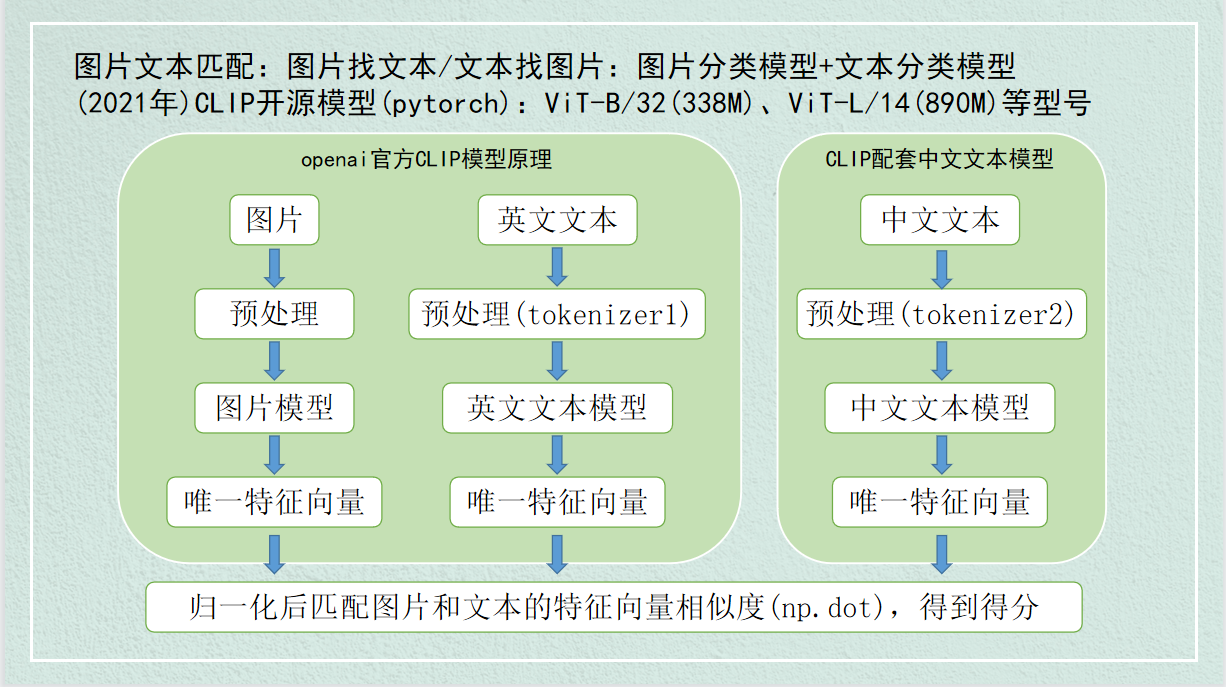
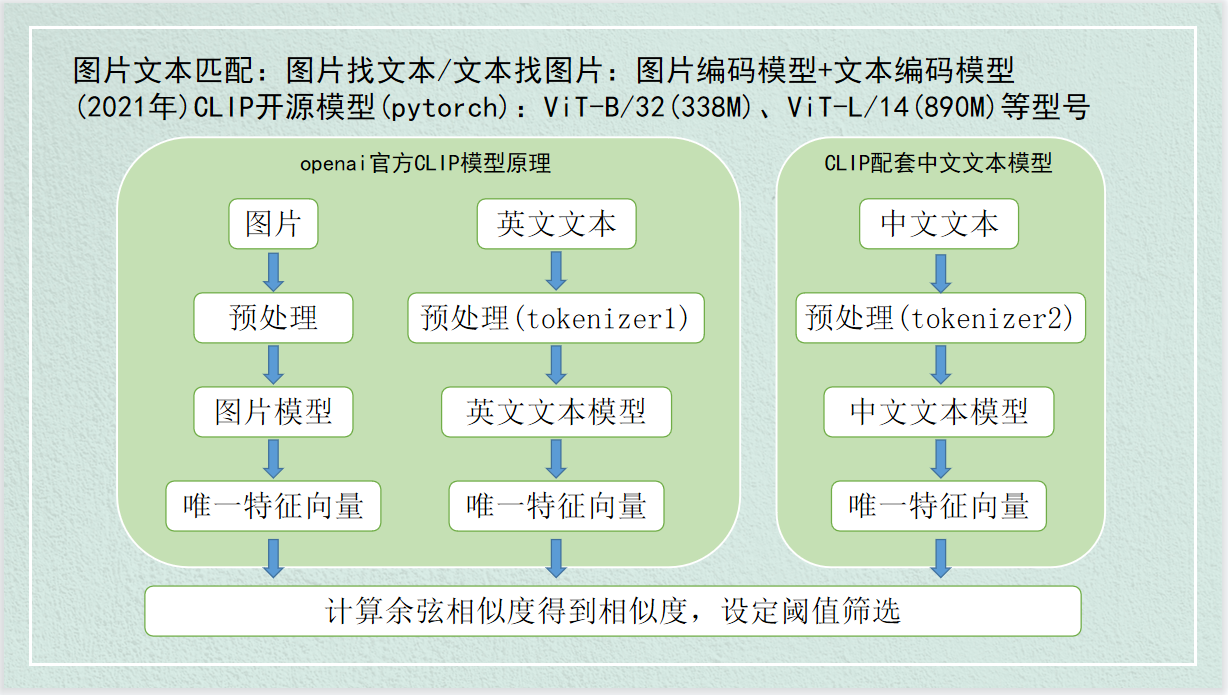
!

Changed region(s): [[0.031, 0.0306, 0.9918, 0.9782], [0.5889, 0.7336, 0.6199, 0.7642]]

diff --git a/predict.py b/predict.py
@@ -8,8 +8,8 @@ import pandas as pd
 parser = argparse.ArgumentParser(description='')
 parser.add_argument('--database_path', default='feature_database.csv', type=str, help='|特征数据库位置|')
 parser.add_argument('--model_name', default='ViT-L/14', type=str, help='|模型名称，中文文本模型只支持ViT-L/14(890M)|')
-parser.add_argument('--english_score_threshold', default=17, type=int, help='|英文文本得分筛选阈值，17为基准|')
-parser.add_argument('--chinese_score_threshold', default=12, type=int, help='|中文文本得分筛选阈值，12为基准|')
+parser.add_argument('--english_score_threshold', default=0.17, type=int, help='|英文文本相似度筛选阈值，0.17为基准|')
+parser.add_argument('--chinese_score_threshold', default=0.12, type=int, help='|中文文本相似度筛选阈值，0.12为基准|')
 parser.add_argument('--device', default='cuda', type=str, help='|运行设备|')
 args = parser.parse_args()
 
@@ -60,7 +60,7 @@ class predict:
         return english_colunm, english_score, chinese_colunm, chinese_score
 
     def _deal(self, text_feature, score_threshold):
-        score = 100.0 * np.dot(text_feature, self.image_feature)
+        score = np.dot(text_feature, self.image_feature)
         judge = np.where(score > score_threshold, True, False)
         colunm = [self.column[judge[_]].tolist() for _ in range(len(judge))]
         score = [score[_][judge[_]].tolist() for _ in range(len(judge))]
@@ -75,7 +75,7 @@ if __name__ == '__main__':
     predictor = predict(args)
     english_colunm, english_score, chinese_colunm, chinese_score = \
         predictor._predict(english_text, chinese_text)  # 输入单个/多个文本，返回图片名和概率值
-    print(f'| 英文:{english_text}:{english_colunm} |')
-    print(f'| 得分:{english_text}:{english_score} |')
-    print(f'| 中文:{chinese_text}:{chinese_colunm} |')
-    print(f'| 得分:{chinese_text}:{chinese_score} |')
+    print(f'| 英文{english_text}:{english_colunm} |')
+    print(f'| 相似度:{english_score} |')
+    print(f'| 中文{chinese_text}:{chinese_colunm} |')
+    print(f'| 相似度:{chinese_score} |')

diff --git a/README.md b/README.md
@@ -4,8 +4,8 @@
 >首次运行代码时会自动下载模型文件到本地clip和huggingface文件夹中(共约1G)  
 ### CLIP介绍
 >CLIP是2021年openai发布的基于对比学习的多模态模型(pytorch)，用于将文字描述和图片匹配  
->相当于1个文本分类模型与1个图片分类模型相结合，两个模型的标签一致，只是标签并非独热编码而是一段特征向量  
->因此一张图片经过图片模型得到的特征向量和这张图片的描述经过文本模型得到的特征向量会相互匹配，从而能够通过文本找图片，也可以通过图片找文本  
+>由一个图片编码模型和一个文本编码模型组成，一张图片经过图片模型得到的特征向量和这张图片的描述经过文本模型得到的特征向量会相近  
+>通过计算余弦相似度和设定阈值可以通过文本找图片、通过图片找文本  
 >原CLIP官方文本模型只支持英文，国内有人训练了中文的文本模型，但只支持ViT-L/14型号(890M)  
 ### 项目介绍
 >本项目将建立图片特征数据库，然后用文本描述(75字以内，长的会被截断)去搜索符合描述的图片  
@@ -14,7 +14,7 @@
 >运行database_prepare.py即可生成特征数据库feature_database.csv  
 ### 2，predict.py
 >在english_text、chinese_text中输入英文、中文文本，运行程序后可以搜到数据库中符合文本描述的图片  
->args中english_score_threshold、chinese_score_threshold为匹配的得分筛选阈值，17、12为基准，可适当调整  
+>args中english_score_threshold、chinese_score_threshold为匹配的相似度筛选阈值，0.17、0.12为基准，可适当调整  
 ### 其他
 >github链接：https://github.com/TWK2022/clip  
 >学习笔记：https://github.com/TWK2022/notebook  
